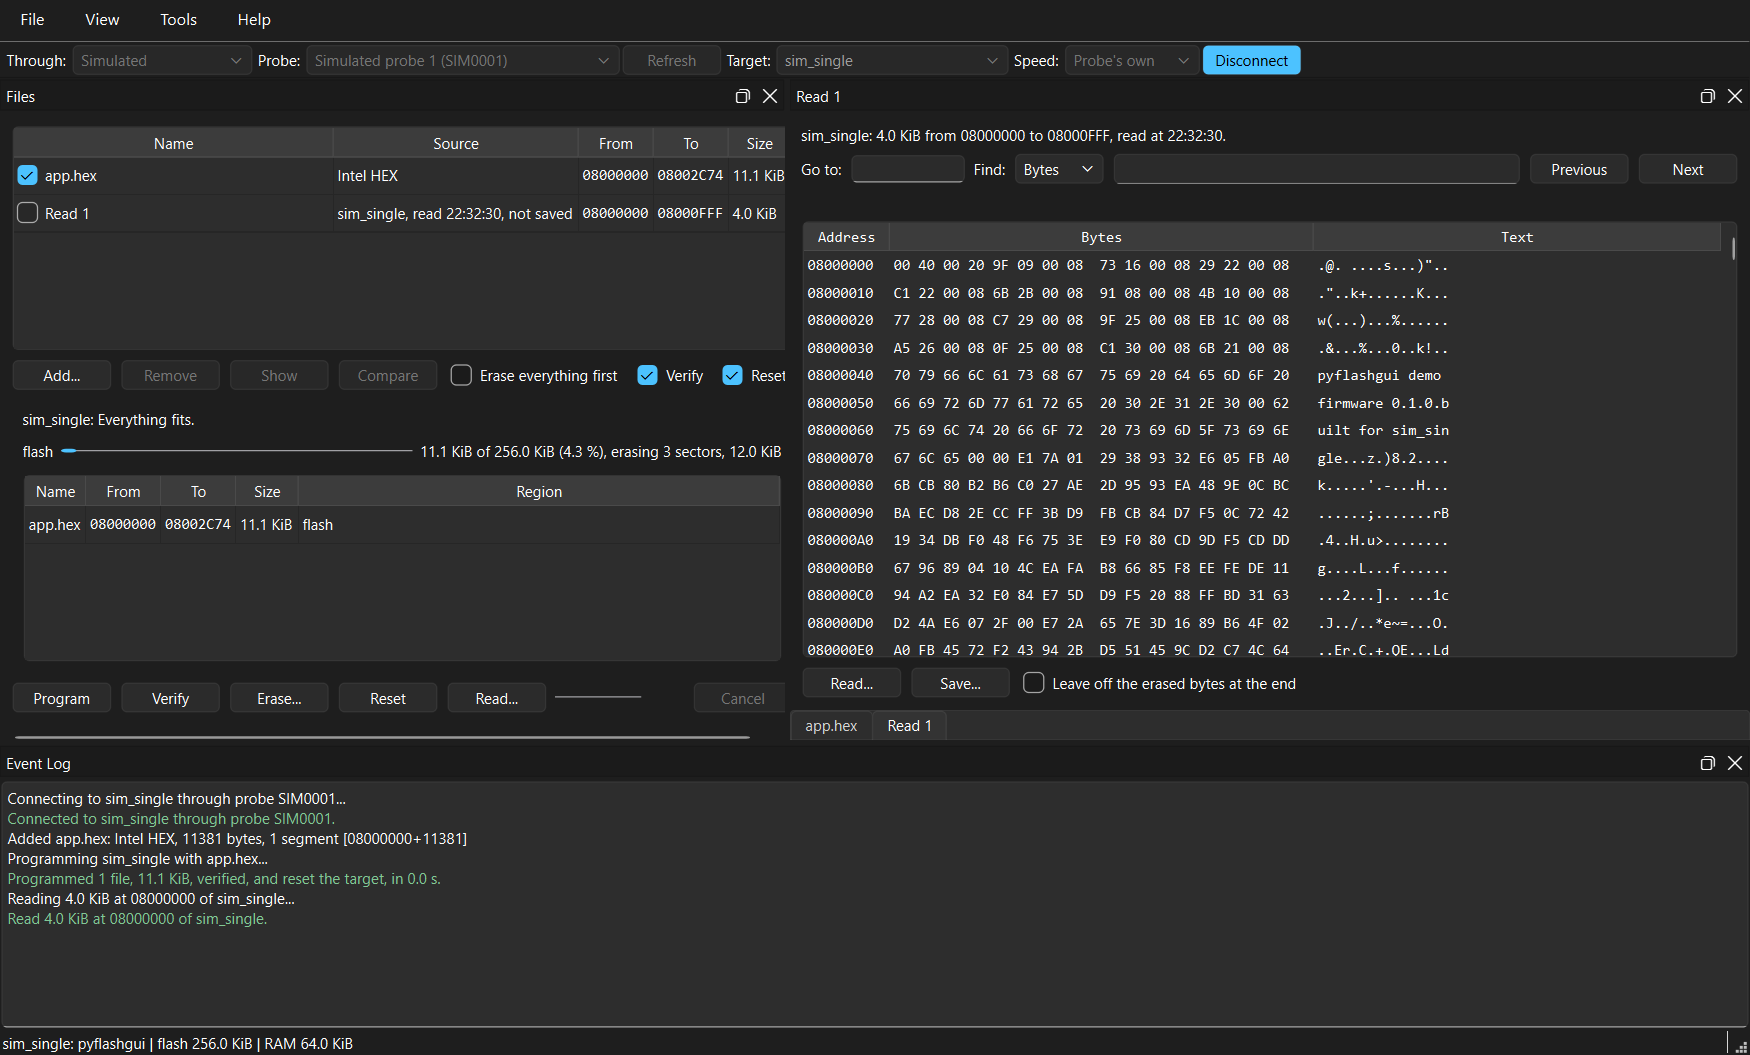
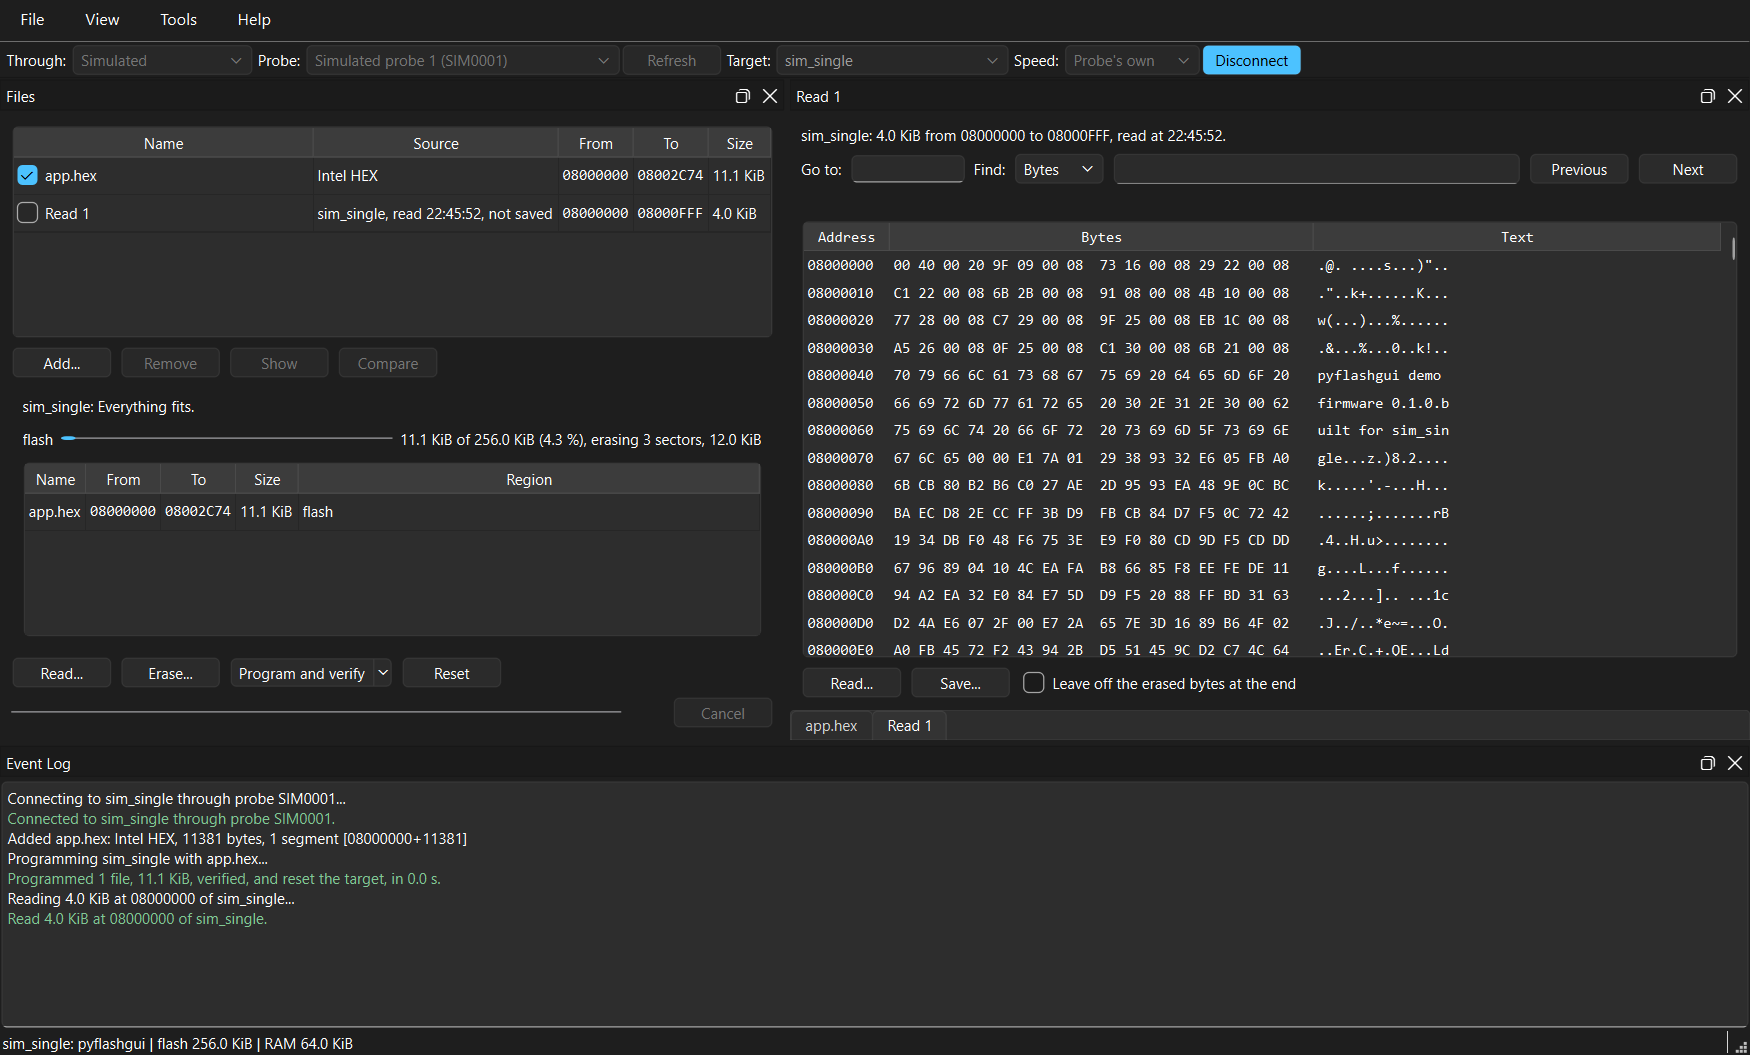
Program and verify is one button, with Program and Verify under its arrow
The three ticks beside the list are gone: they were about programming and sat
with the buttons for the list. The press writes, checks and restarts the
target; each half is under the arrow on its own. Only the sectors written to
are erased, Erase... being there for all of the flash, and the target is
always restarted after programming unless the check failed.

The row is Read, Erase, Program and verify, Reset, in the order they are
reached for, and the progress bar has a line of its own: beside the buttons
it made the pane wider than half the window it opens in.

diff --git a/pyflashgui/ui/files_view.py b/pyflashgui/ui/files_view.py
@@ -25,7 +25,6 @@ from pathlib import Path
 from PySide6.QtCore import QFileSystemWatcher, Qt, QTimer, Signal
 from PySide6.QtWidgets import (
     QAbstractItemView,
-    QCheckBox,
     QHBoxLayout,
     QHeaderView,
     QMessageBox,
@@ -38,17 +37,17 @@ from PySide6.QtWidgets import (
     QWidget,
 )
 
-from pyflashgui.backends.base import ERASE_CHIP, ERASE_SECTORS
+from pyflashgui.backends.base import ERASE_SECTORS
 from pyflashgui.core import images
 from pyflashgui.core.context import Context
 from pyflashgui.core.flasher import Flasher, size_text
 from pyflashgui.core.images import Image, ImageError, Segment
 from pyflashgui.core.memory_map import lay_out
 from pyflashgui.ui import folders, fonts, messages
+from pyflashgui.ui.buttons import SplitButton
 from pyflashgui.ui.confirm import Confirmations
 from pyflashgui.ui.erase_dialog import EraseDialog
 from pyflashgui.ui.map_view import MapView
-from pyflashgui.ui.persist import remember
 
 FILES_KEY = "files.list"
 
@@ -240,34 +239,30 @@ class FilesView(QWidget):
         )
         self.compare_button.clicked.connect(self.compare_selected)
 
-        self.chip_erase = QCheckBox("Erase everything first")
-        self.chip_erase.setToolTip(
-            "Erase all of the flash before programming, so that nothing of what\n"
-            "was there is left. Without it, only the sectors the ticked write to\n"
-            "are erased, and the rest of the flash is kept."
+        #: The press that is wanted nearly every time checks what it wrote;
+        #: writing without the check is under the arrow, for an image big
+        #: enough that reading it all back is not worth the wait.
+        self.program_button = SplitButton(
+            "Program and verify",
+            "Write the ticked files and reads to the target, read the flash back\n"
+            "to check it holds what was written, and restart the target so that\n"
+            "what was written runs. Only the sectors written to are erased.",
+            self.program,
         )
-        self.verify_after = QCheckBox("Verify")
-        self.verify_after.setChecked(True)
-        self.verify_after.setToolTip(
-            "Read the flash back after programming and compare it with what was written."
+        self.program_only = self.program_button.add(
+            "Program",
+            "Write and restart the target without reading the flash back to\n"
+            "check it. Quicker for a large image; Verify, below, can be chosen after.",
+            lambda: self.program(verify=False),
         )
-        self.reset_after = QCheckBox("Reset")
-        self.reset_after.setChecked(True)
-        self.reset_after.setToolTip(
-            "Restart the target after programming, so the new firmware runs."
+        #: The second half of the button on its own: for a target programmed
+        #: some other time, or by something else.
+        self.verify_only = self.program_button.add(
+            "Verify",
+            "Compare what is in the target with what is ticked, changing nothing\n"
+            "and restarting nothing.",
+            self.verify,
         )
-        remember(ctx, "files.chip_erase", self.chip_erase)
-        remember(ctx, "files.verify", self.verify_after)
-        remember(ctx, "files.reset", self.reset_after)
-
-        self.program_button = QPushButton("Program")
-        self.program_button.setToolTip("Write the ticked files and reads to the target.")
-        self.program_button.clicked.connect(self.program)
-        self.verify_button = QPushButton("Verify")
-        self.verify_button.setToolTip(
-            "Compare what is in the target with what is ticked, changing nothing."
-        )
-        self.verify_button.clicked.connect(self.verify)
         self.erase_button = QPushButton("Erase...")
         self.erase_button.setToolTip(
             "Erase the target's flash: all of it, some of its regions, or a range."
@@ -303,19 +298,22 @@ class FilesView(QWidget):
         ):
             files_row.addWidget(widget)
         files_row.addStretch(1)
-        for widget in (self.chip_erase, self.verify_after, self.reset_after):
-            files_row.addWidget(widget)
         actions_row = QHBoxLayout()
+        # In the order they are reached for: look at what is there, clear
+        # it, write what is wanted, and start it again.
         for widget in (
-            self.program_button,
-            self.verify_button,
-            self.erase_button,
-            self.reset_button,
             self.read_button,
+            self.erase_button,
+            self.program_button,
+            self.reset_button,
         ):
             actions_row.addWidget(widget)
-        actions_row.addWidget(self.progress, 1)
-        actions_row.addWidget(self.cancel_button)
+        actions_row.addStretch(1)
+        # A row of its own: beside the buttons, the bar made the pane wider
+        # than half the window it opens in, and the end of the row was cut off.
+        progress_row = QHBoxLayout()
+        progress_row.addWidget(self.progress, 1)
+        progress_row.addWidget(self.cancel_button)
         listed = QWidget()
         list_layout = QVBoxLayout(listed)
         list_layout.setContentsMargins(0, 0, 0, 0)
@@ -329,6 +327,7 @@ class FilesView(QWidget):
         layout = QVBoxLayout(self)
         layout.addWidget(self.splitter, 1)
         layout.addLayout(actions_row)
+        layout.addLayout(progress_row)
 
         #: Reads a file again when a build writes it. Once it has settled:
         #: see SETTLE_MS.
@@ -611,7 +610,14 @@ class FilesView(QWidget):
             return True  # nothing real is on the end of it
         return self.confirm.ask(self, f"{key}:{self.flasher.target}", title, text)
 
-    def program(self) -> None:
+    def program(self, verify: bool = True) -> None:
+        """Write what is ticked, check it unless told not to, and restart the target.
+
+        Only the sectors written to are erased: all of the flash is Erase...,
+        asked for by name. And the target is always restarted afterwards,
+        unless the check failed: it is left halted by being programmed, and
+        what was written is there to be run.
+        """
         if (files := self.reread()) is None:
             return
         if not files:
@@ -625,26 +631,15 @@ class FilesView(QWidget):
         if not layout.programmable:
             self.ctx.events.error("Not programmed: the Memory Map says what is wrong.")
             return
-        everything = self.chip_erase.isChecked()
         target = self.flasher.target
         if not self._may(
             "program",
             f"Program {target}?",
-            f"This replaces what {target} holds"
-            + (
-                ": all of its flash is erased first."
-                if everything
-                else " in the sectors that what is ticked writes to."
-            )
-            + " It cannot be undone.",
+            f"This replaces what {target} holds in the sectors that what is ticked writes "
+            "to. It cannot be undone.",
         ):
             return
-        self.flasher.program(
-            files,
-            erase=ERASE_CHIP if everything else ERASE_SECTORS,
-            verify=self.verify_after.isChecked(),
-            reset=self.reset_after.isChecked(),
-        )
+        self.flasher.program(files, erase=ERASE_SECTORS, verify=verify, reset=True)
 
     def verify(self) -> None:
         if (files := self.reread()) is not None:
@@ -681,7 +676,6 @@ class FilesView(QWidget):
         ready = connected and not busy
         ticked = any(e.enabled for e in self.entries)
         self.program_button.setEnabled(ready and ticked)
-        self.verify_button.setEnabled(ready and ticked)
         self.erase_button.setEnabled(ready)
         self.reset_button.setEnabled(ready)
         self.read_button.setEnabled(ready)

diff --git a/tests/test_flash_panes.py b/tests/test_flash_panes.py
@@ -214,7 +214,7 @@ def test_the_buttons_wait_for_a_connection_and_a_ticked_file(window, tmp_path):
     assert files.erase_button.isEnabled() and files.reset_button.isEnabled()
     assert not files.program_button.isEnabled(), "there is nothing to program yet"
     files.add_files([hex_file(tmp_path, "app.hex", FLASH_AT, bytes(16))])
-    assert files.program_button.isEnabled() and files.verify_button.isEnabled()
+    assert files.program_button.isEnabled()
 
 
 def test_program_sends_what_the_file_holds_now(window, tmp_path):
@@ -242,17 +242,33 @@ def test_program_refuses_what_the_memory_map_calls_an_error(window, tmp_path):
     assert errors[-1] == "Not programmed: the Memory Map says what is wrong."
 
 
-def test_the_ticks_say_what_program_does_besides(window, tmp_path):
+def test_the_button_verifies_and_program_alone_is_under_its_arrow(window, tmp_path):
     files = window.files_view
     files.add_files([hex_file(tmp_path, "app.hex", FLASH_AT, b"abcd")])
-    files.verify_after.setChecked(False)
-    files.reset_after.setChecked(False)
+    assert files.program_button.text() == "Program and verify"
+    assert [a.text() for a in files.program_button.menu().actions()] == ["Program", "Verify"]
     connect(window)
+
+    files.program_only.trigger()
+    idle(window)
+    assert said(window, GOOD)[-1].startswith(
+        "Programmed 1 file, 4 bytes, and reset the target, in "
+    )
+    assert backends.get("simulated").board(PROBE).resets == 1, "restarted either way"
+
     files.program_button.click()
     idle(window)
-    assert backends.get("simulated").board(PROBE).resets == 0
-    assert said(window, GOOD)[-1].startswith("Programmed 1 file, 4 bytes, in ")
-    assert window.ctx.settings.get("files.verify") is False
+    assert said(window, GOOD)[-1].startswith(
+        "Programmed 1 file, 4 bytes, verified, and reset the target, in "
+    )
+    assert backends.get("simulated").board(PROBE).resets == 2
+
+
+def test_there_are_no_ticks_beside_the_list(window):
+    """What Program does is said on the button that does it."""
+    from PySide6.QtWidgets import QCheckBox
+
+    assert window.files_view.findChildren(QCheckBox) == []
 
 
 def test_verify_erase_and_reset_from_their_buttons(window, tmp_path, monkeypatch):
@@ -265,14 +281,14 @@ def test_verify_erase_and_reset_from_their_buttons(window, tmp_path, monkeypatch
     connect(window)
     files.program_button.click()
     idle(window)
-    files.verify_button.click()
+    files.verify_only.trigger()
     idle(window)
     assert said(window, GOOD)[-1] == "Verified: 4 bytes match the files."
     files.erase_button.click()
     idle(window)
     board = backends.get("simulated").board(PROBE)
     assert bytes(board.memory["flash"][:4]) == b"\xff" * 4
-    files.verify_button.click()
+    files.verify_only.trigger()
     idle(window)
     assert "4 bytes differ of 4" in said(window, ERROR)[-1]
     files.reset_button.click()

diff --git a/pyflashgui/ui/buttons.py b/pyflashgui/ui/buttons.py
@@ -1,0 +1,40 @@
+# SPDX-License-Identifier: Apache-2.0
+# SPDX-FileCopyrightText: 2026 davhodg
+"""A button in two parts: what is done every time, and what is chosen now and then.
+
+Pressing it does the thing. The small arrow beside it opens a menu of what
+goes with the thing and is wanted less often -- programming without the
+verify, beside the button that does both. Two buttons for that pair spent a
+row's width on the one pressed rarely; a tick box beside them said what the
+button would do somewhere other than on the button.
+"""
+
+from __future__ import annotations
+
+from collections.abc import Callable
+
+from PySide6.QtGui import QAction
+from PySide6.QtWidgets import QMenu, QPushButton, QToolButton
+
+
+class SplitButton(QToolButton):
+    """Pressed, it calls ``pressed``; its arrow opens the menu ``add`` fills."""
+
+    def __init__(self, text: str, tip: str, pressed: Callable[[], None]) -> None:
+        super().__init__()
+        self.setText(text)
+        self.setToolTip(tip)
+        self.setPopupMode(QToolButton.MenuButtonPopup)
+        self.clicked.connect(lambda _checked=False: pressed())
+        menu = QMenu(self)
+        menu.setToolTipsVisible(True)
+        self.setMenu(menu)
+        # As tall as an ordinary button, which it sits in a row with: a tool
+        # button is drawn shorter.
+        self.setMinimumHeight(QPushButton(text).sizeHint().height())
+
+    def add(self, text: str, tip: str, chosen: Callable[[], None]) -> QAction:
+        action = self.menu().addAction(text)
+        action.setToolTip(tip)
+        action.triggered.connect(lambda _checked=False: chosen())
+        return action

diff --git a/pyflashgui/help/files.md b/pyflashgui/help/files.md
@@ -27,21 +27,18 @@ The format is told from what is in the file, not from its name.
 
 **A file is read again every time it is used**, and whenever it changes on disc, so the list, the memory map and the file's Memory pane follow each build and **Program** always sends what the file holds now. A file that cannot be read says *Cannot be read* in the list; hover over it for why.
 
-## Program, Verify, Erase, Reset, Read
+## Read, Erase, Program and verify, Reset
 
 These need a probe [connected](probe.md) to a target.
 
-- **Program** writes what is ticked: files, reads, or both. Before it starts, they are checked against the target's memory and against each other, as the [memory map](memory-map.md) shows: if anything is an error there -- two of them writing the same addresses is one -- nothing is programmed and the [Event Log](manual.md) says why.
-- **Verify** reads the flash back and compares it with what is ticked, changing nothing. If they differ, it says how many bytes do and where the first one is.
-- **Erase...** erases the target's flash: all of it, some of its regions, or a range of addresses. See *Erasing* below.
-- **Reset** restarts the target.
 - **Read...** reads part of the target's memory back, changing nothing in the target. What is read joins the list and is shown in a [Memory](memory.md) pane of its own. It can be saved to a file from there.
+- **Erase...** erases the target's flash: all of it, some of its regions, or a range of addresses. See *Erasing* below.
+- **Program and verify** writes what is ticked -- files, reads, or both -- then reads the flash back to check it holds what was written, and restarts the target so that the new firmware runs. Before it starts, what is ticked is checked against the target's memory and against each other, as the [memory map](memory-map.md) shows: if anything is an error there -- two of them writing the same addresses is one -- nothing is programmed and the [Event Log](manual.md) says why. The arrow beside it has each half on its own:
+  - **Program** writes and restarts without the check: quicker for a large image.
+  - **Verify** reads the flash back and compares it with what is ticked, changing nothing and restarting nothing. If they differ, it says how many bytes do and where the first one is.
+- **Reset** restarts the target.
 
-Three ticks say what **Program** does besides writing:
-
-- **Erase everything first** erases all of the flash before programming, so nothing of what was there is left. Without it, only the sectors the files write to are erased and the rest of the flash is kept.
-- **Verify** reads the flash back afterwards and compares it.
-- **Reset** restarts the target afterwards, so the new firmware runs. It is not reset if verifying failed.
+Programming erases only the sectors it writes to, and the rest of the flash is kept; to clear all of it first, use **Erase...**. The target is restarted afterwards, since programming leaves it halted, but not if the check failed.
 
 **Program and Erase ask first**, once a session for each target, because what they replace cannot be got back. The question can be told not to ask again; *Tools > Reset > Re-enable all confirmations* brings it back. The simulated target is not asked about.
 

diff --git a/pyflashgui/help/manual.md b/pyflashgui/help/manual.md
@@ -9,7 +9,7 @@ pyflashgui is a graphical flash programming tool: for Arm Cortex-M targets with 
 ## Contents
 
 - [Probe and target](probe.md): the bar across the top, connecting, and which probes need what
-- [Files](files.md): what is open, files and reads alike, and Program, Verify, Erase, Reset, Read and Compare
+- [Files](files.md): what is open, files and reads alike, and Read, Erase, Program and verify, Reset and Compare
 - [Memory map](memory-map.md): where what is ticked lands, checked before anything is sent
 - [Memory](memory.md): the bytes of a file or of what was read back, to look at, compare and save
 - [About, licences and updates](about.md)
@@ -20,7 +20,7 @@ pyflashgui is a graphical flash programming tool: for Arm Cortex-M targets with 
 1. Choose the **Probe** and the **Target** in the bar across the top.
 2. **Add...** the firmware files in the Files pane.
 3. Look at the memory map under the list: it says whether they fit the target.
-4. **Connect**, then **Program**.
+4. **Connect**, then **Program and verify**.
 
 With no hardware, choose *Simulated* under **Through** and the same steps work on a target that exists only in memory.
 

diff --git a/pyflashgui/help/changelog.md b/pyflashgui/help/changelog.md
@@ -18,8 +18,15 @@ since the last version, and comes out in the next one.
 
 ### Changed
 
+- **Program and verify** is one button, with **Program** and **Verify** each on its own
+  under its arrow, in place of the Verify button and the Verify and Reset ticks: the
+  target is always restarted after programming.
 - The launchers no longer ask about a Start menu entry: the first start says in the Event
   Log where a shortcut is made.
+
+### Removed
+
+- The **Erase everything first** tick. **Erase...** erases all of the flash.
 
 ## [0.1.0] - 2026-10-11
 
